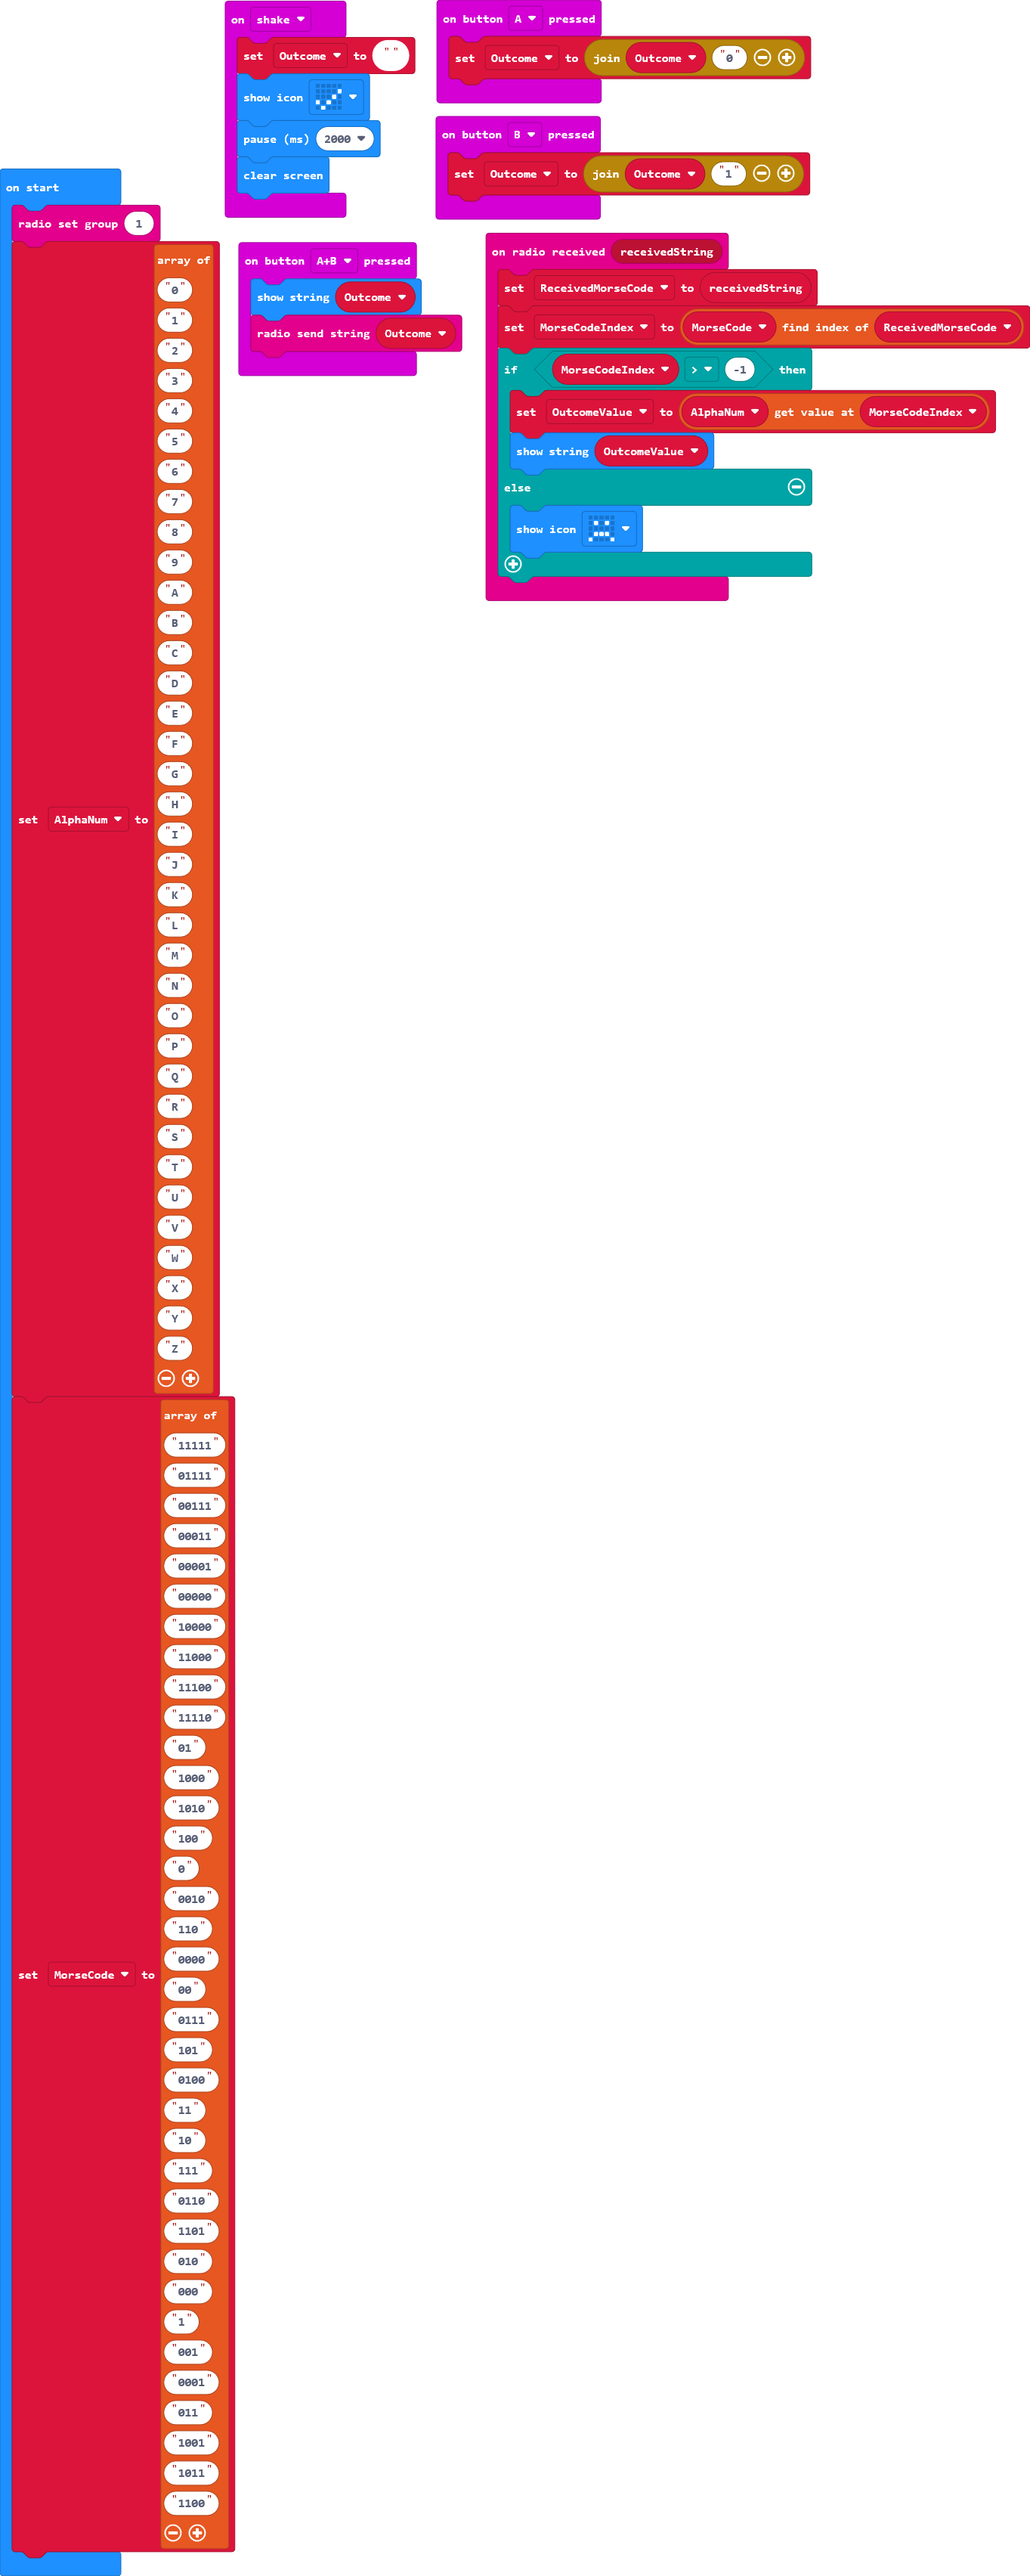
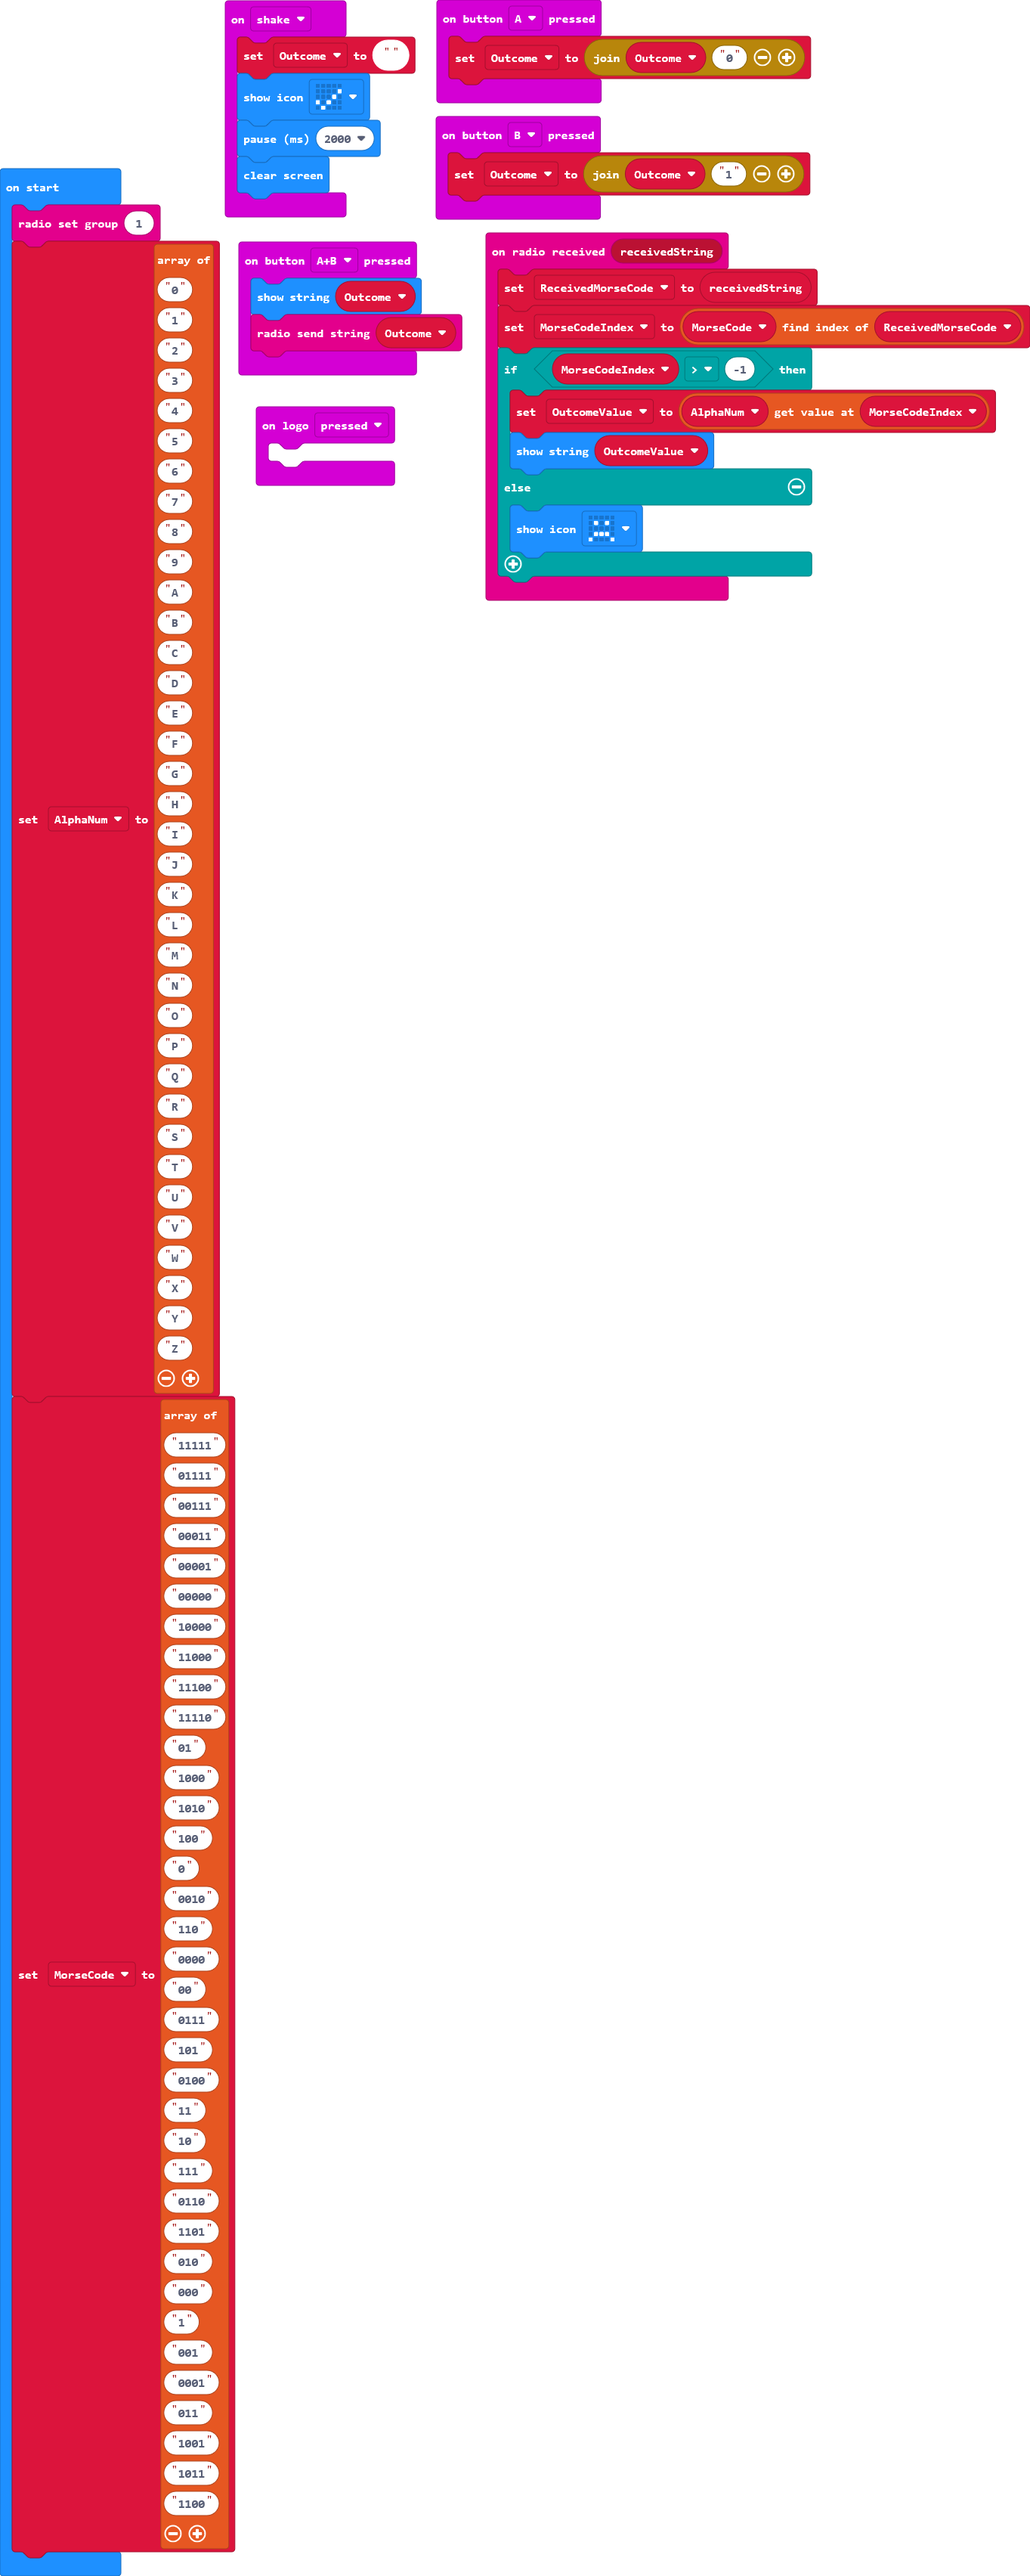
Update main.blocks, main.ts

Changed region(s): [[0.2465, 0.1556, 0.4006, 0.1867], [0.3081, 0.0933, 0.4006, 0.1244]]

diff --git a/main.ts b/main.ts
@@ -24,6 +24,9 @@ input.onGesture(Gesture.Shake, function () {
     basic.pause(2000)
     basic.clearScreen()
 })
+input.onLogoEvent(TouchButtonEvent.Pressed, function () {
+	
+})
 let OutcomeValue = ""
 let MorseCodeIndex = 0
 let ReceivedMorseCode = ""
